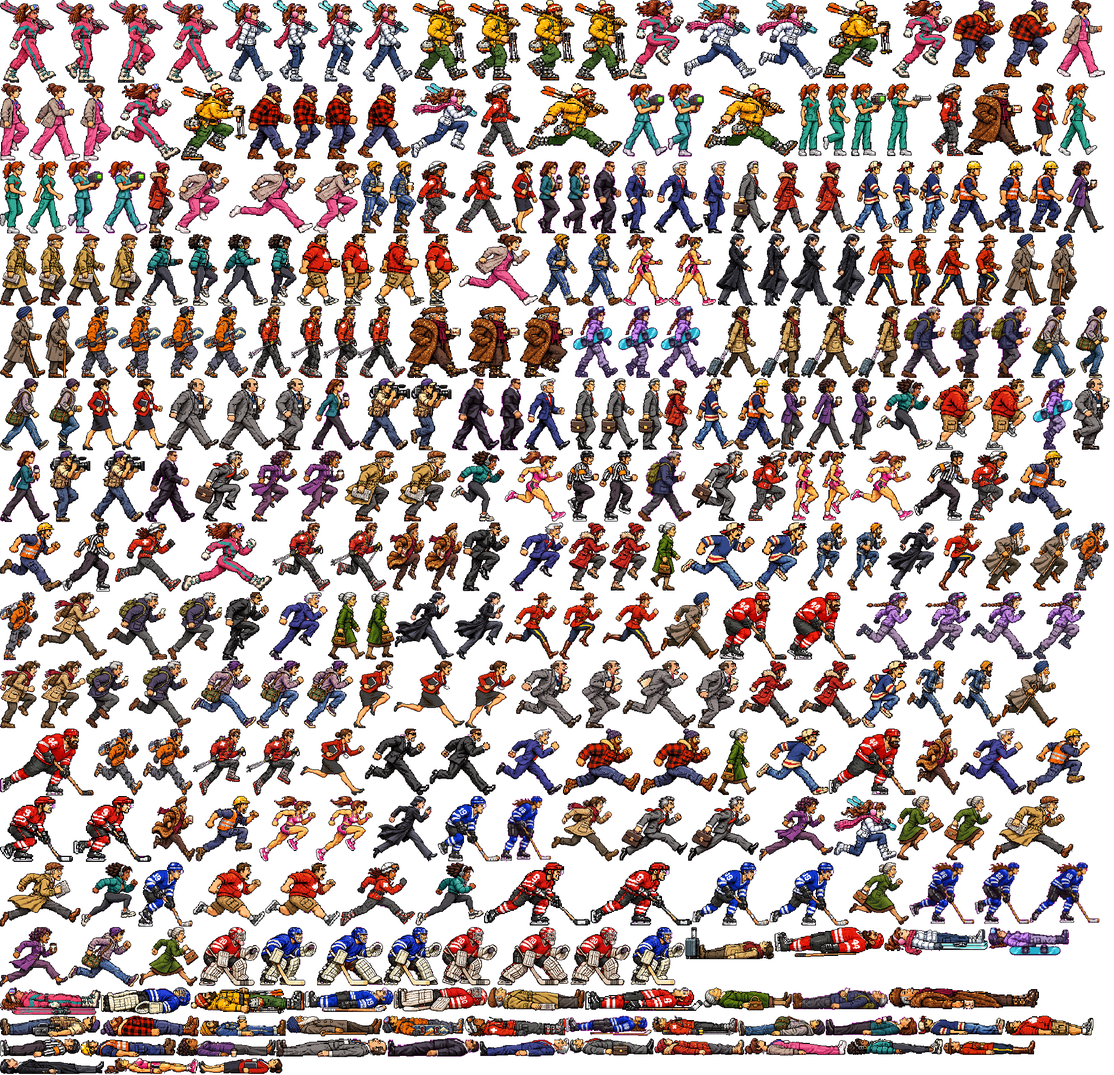
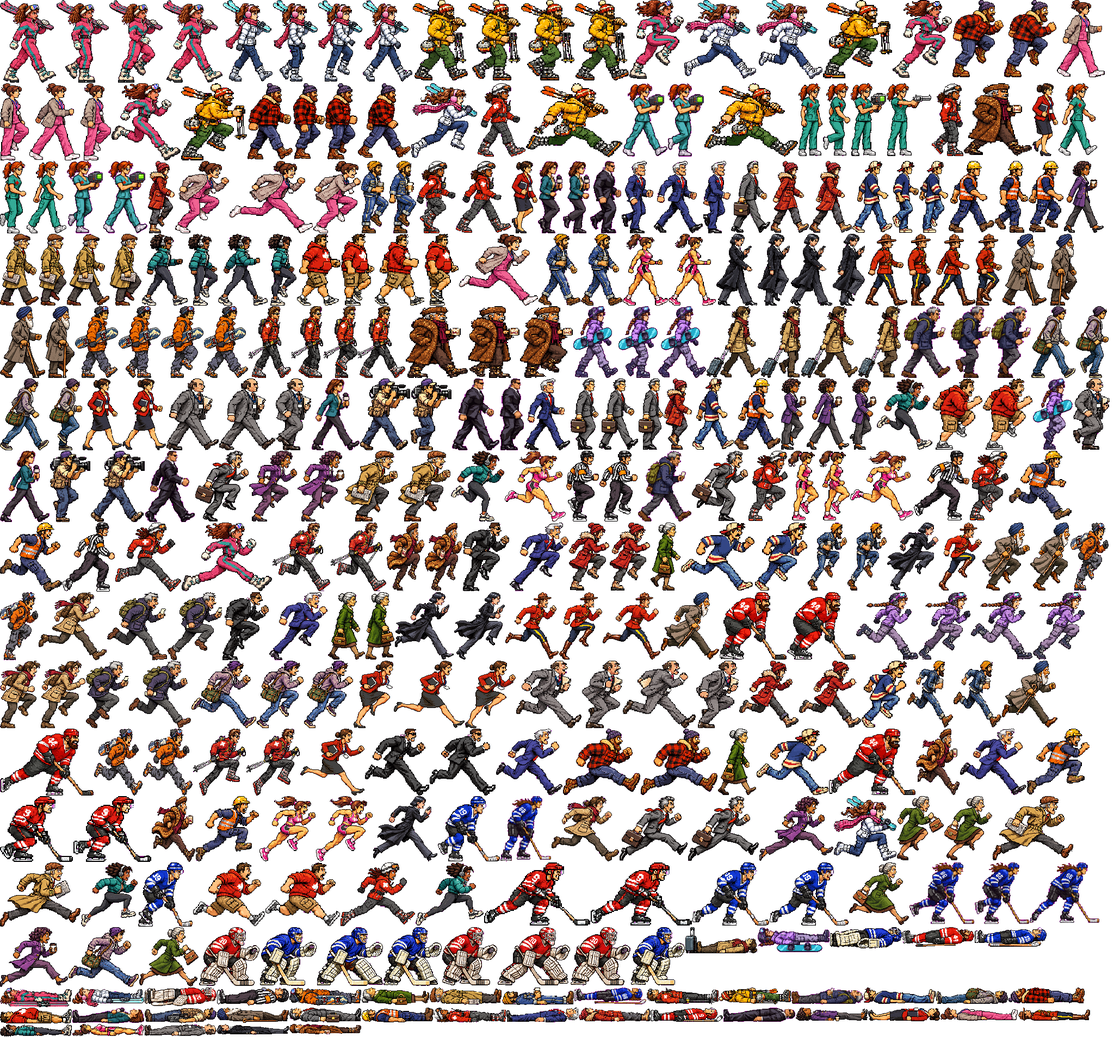
Fallen poses sized to upright height, smooth step phase and turning, cheering crowds, snowfall

diff --git a/index.html b/index.html
@@ -423,6 +423,7 @@ function update(dt) {
   }
   for (const p of S.people) {
     p.t += dt; if (p.flashT) p.flashT -= dt;
+    p.ph = (p.ph || 0) + dt * (p.state === 'run' ? (A[p.c].run ? 9 : 12) : Math.min(p.sp, 200) / 22);
     if (p.bubble && (p.bubble.t -= dt) <= 0) p.bubble = null;
     if (p.state === 'dead') { p.dt += dt; continue; }
     if (S.scanT === p || p.state === 'bench') continue;
@@ -630,6 +631,7 @@ function drawChase() {
   }
   g.globalAlpha = 1;
   if (S.limoBubble && L.spin === 0) bubble(S.limoBubble.text, clamp(L.x - cam + 330, 140, VW - 140), L.y - VEH.limo.height - 6);
+  snowfall();
   if (S.flash > 0) { g.fillStyle = 'rgba(255,255,220,.3)'; g.fillRect(0, 0, VW, VH); }
   // HUD: the border clock, the limo's armour, distance
   const secs = Math.ceil(Math.max(0, S.t));
@@ -666,7 +668,29 @@ function setupHockey() {
   S.puck = { x: mid, y: (TOP + BOT) / 2, vx: 0, vy: 0, owner: null, free: 1.5 };
 }
 const skater = p => p.team !== undefined && p.team >= 0 && p.role !== 'G' && p.state === 'walk';
+// the stands cheer: columns of fans bob at staggered beats, harder for a few seconds after a goal, with camera flashes
+function crowd(cam) {
+  const t = performance.now() / 1000, amp = S.cheer > S.clock ? 7 : 2.5, y0 = 40, h = 172, cw = 24;
+  for (let x = 0; x < VW; x += cw) {
+    const wx = x + cam, i = Math.floor(wx / PW), im = PANELS[MAP.panels[MAP.order[clamp(i, 0, MAP.order.length - 1)]]];
+    const k = Math.floor(wx / cw), off = Math.max(0, Math.sin(t * (S.cheer > S.clock ? 13 : 7) + k * 1.7)) * amp;
+    if (off > 0.5) g.drawImage(im, wx - i * PW, y0, cw, h, x, y0 - off, cw, h);
+  }
+  if (Math.random() < (S.cheer > S.clock ? 0.5 : 0.08)) (S.camFlash = S.camFlash || []).push({ x: cam + Math.random() * VW, y: 50 + Math.random() * 150, t: 0.12 });
+  for (const f of S.camFlash || []) { f.t -= 1 / 60; g.fillStyle = `rgba(255,255,255,${Math.max(0, f.t / 0.12)})`; g.beginPath(); g.arc(f.x - cam, f.y, 6, 0, 7); g.fill(); g.fillRect(f.x - cam - 12, f.y - 1, 24, 2); g.fillRect(f.x - cam - 1, f.y - 12, 2, 24); }
+  S.camFlash = (S.camFlash || []).filter(f => f.t > 0);
+}
+// light snow on the outdoor maps
+function snowfall() {
+  const t = performance.now() / 1000;
+  g.fillStyle = 'rgba(255,255,255,.75)';
+  for (let i = 0; i < 70; i++) {
+    const x = (i * 137.1 + t * (25 + i % 5 * 9) + Math.sin(t + i) * 12) % VW, y = (i * 71.3 + t * (55 + i % 7 * 12)) % VH, r = 1 + i % 3;
+    g.fillRect((x + VW) % VW, y, r, r);
+  }
+}
 function goal(team) {
+  S.cheer = S.clock + 3.5;
   const pk = S.puck;
   S.score[team]++;
   voice('ann-goal'); tone(233, 1.4, 'sawtooth', 0.12); tone(294, 1.4, 'sawtooth', 0.1);
@@ -723,7 +747,8 @@ function updateHockey(dt) {
     const dx = tx - p.x, dy = ty - p.y, d = Math.hypot(dx, dy) || 1, want = Math.min(speed, d * 2), k = Math.min(1, dt * 3);
     p.vx += (dx / d * want - p.vx) * k; p.vy += (dy / d * want - p.vy) * k;
     p.x = clamp(p.x + p.vx * dt, 40, WORLD - 40); p.y = clamp(p.y + p.vy * dt, TOP, BOT);
-    p.sp = Math.hypot(p.vx, p.vy); if (Math.abs(p.vx) > 15) p.dir = Math.sign(p.vx);
+    p.sp = Math.hypot(p.vx, p.vy);
+    if (Math.abs(p.vx) > 45 && Math.sign(p.vx) !== p.dir && S.clock > (p.turnAt || 0)) { p.dir = Math.sign(p.vx); p.turnAt = S.clock + 0.35; }
     if (!skater(p)) {
       if (p.role === 'G' && !pk.owner && Math.hypot(pk.x - p.x, pk.y - p.y) < 46 && Math.abs(pk.vx) > 120 && Math.random() < 0.7) { pk.vx = -pk.vx * 0.4; pk.vy = (Math.random() - 0.5) * 320; tone(320, 0.05); }
       continue;
@@ -743,8 +768,8 @@ function personFrame(p) {
   const a = A[p.c];
   if (p.state === 'dead') return a.dead[0];
   if (p.state === 'idle' || S.scanT === p) return a.walk[0];
-  if (p.state === 'run') { const r = a.run || a.walk; return r[Math.floor(p.t * (a.run ? 9 : 12)) % r.length]; }
-  return a.walk[Math.floor(p.t * p.sp / 22) % 4];
+  if (p.state === 'run') { const r = a.run || a.walk; return r[Math.floor(p.ph || 0) % r.length]; }
+  return a.walk[Math.floor(p.ph || 0) % 4];
 }
 function playerFrame() {
   const a = A.c1, P = S.p;
@@ -774,6 +799,7 @@ function drawPlay() {
   g.imageSmoothingEnabled = false;
   const first = Math.floor(cam / PW);
   for (let i = first; i <= first + 1 && i < MAP.order.length; i++) g.drawImage(PANELS[MAP.panels[MAP.order[i]]], Math.round(i * PW - cam), 0, PW, VH);
+  if (MAP.hockey) crowd(cam);
   g.save(); g.translate(-Math.round(cam), 0);
   for (const k of S.picks) {                    // an alarm clock: +10 seconds; it blinks before it's gone
     if (k.life < 3 && Math.floor(k.life * 6) % 2) continue;
@@ -835,6 +861,7 @@ function drawPlay() {
   }
   g.globalAlpha = 1;
   for (const p of S.people) if (p.bubble && p.x > cam - 100 && p.x < cam + VW + 100) bubble(p.bubble.text, p.x - cam, p.y - 160);
+  if (!MAP.hockey && !S.m.storm) snowfall();
   if (S.m.storm) {
     const px = P.x - cam, py = P.y - 70, fog = g.createRadialGradient(px, py, 90, px, py, 360);
     fog.addColorStop(0, 'rgba(235,240,250,0)'); fog.addColorStop(1, 'rgba(235,240,250,.93)');
